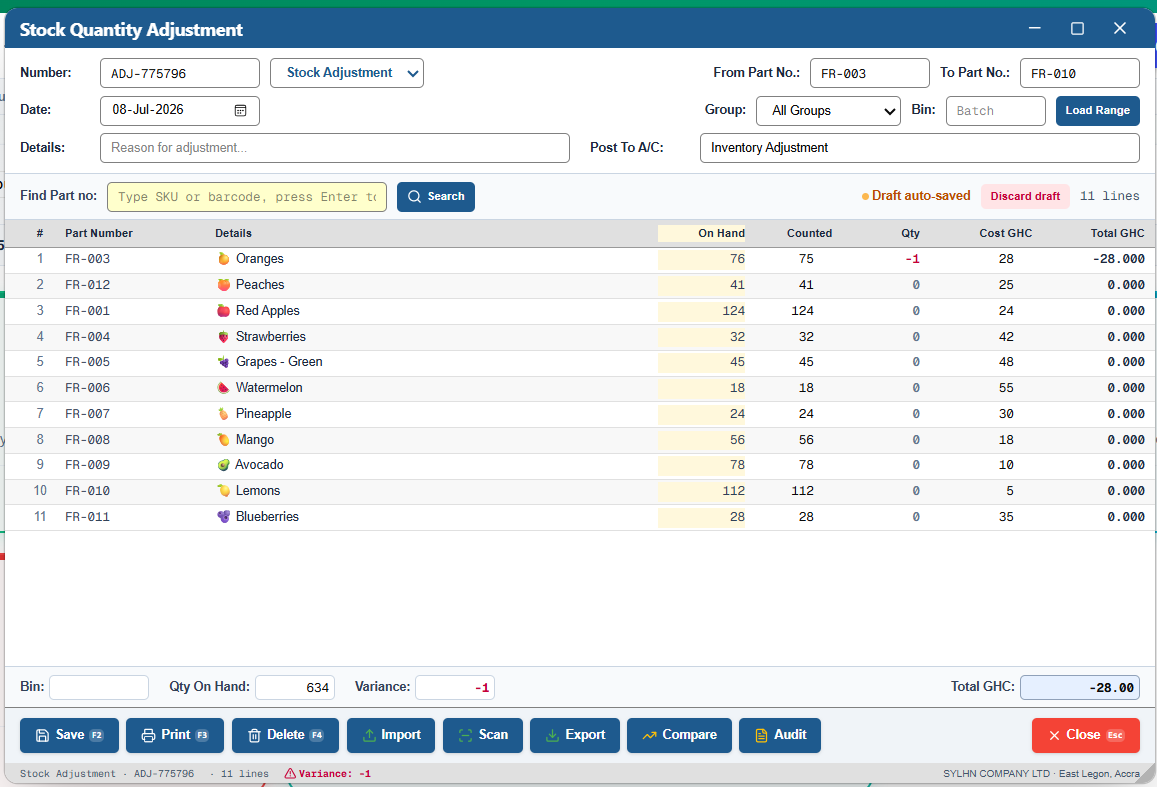
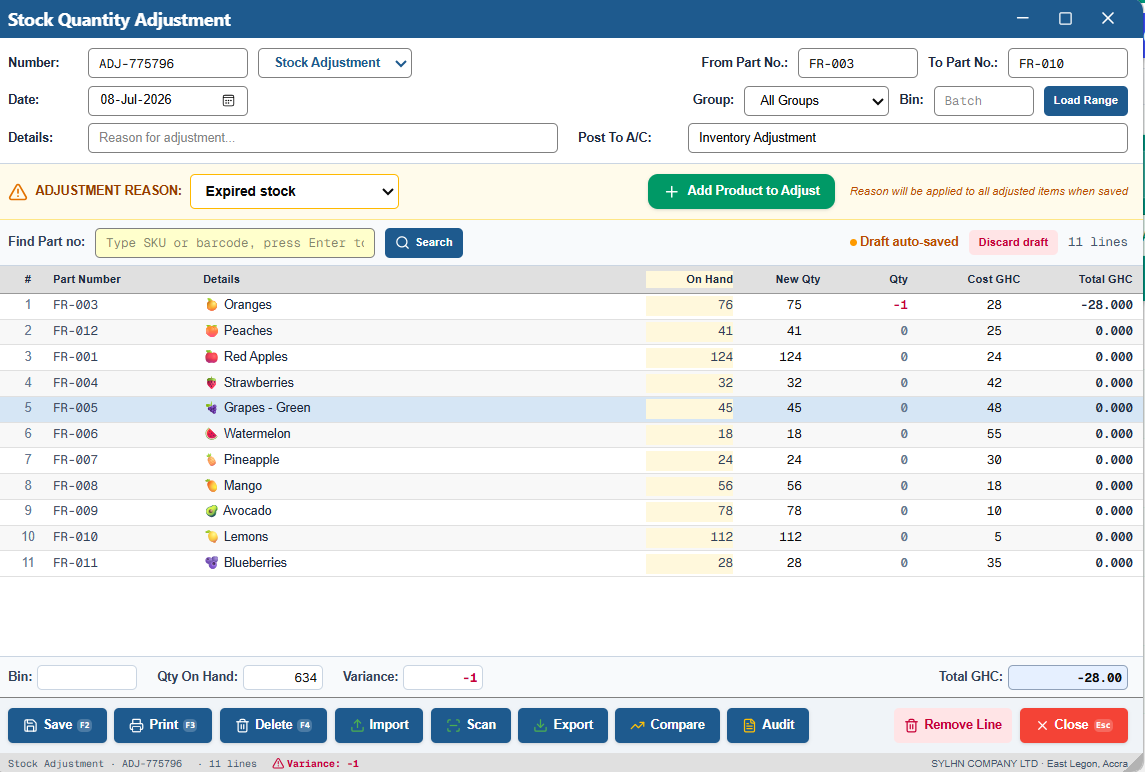
08d92ff1-fcd8-4f8e-9fe2-36269b698050

Changed region(s): [[0.0, 0.0, 1.0, 1.0]]

diff --git a/src/components/stock-quantity-adjustment.tsx b/src/components/stock-quantity-adjustment.tsx
@@ -4,7 +4,7 @@ import { useState, useMemo, useEffect, useRef } from "react";
 import { motion, AnimatePresence } from "framer-motion";
 import {
   Save, Printer, Trash2, Upload, Download, X, Search as SearchIcon,
-  Package, AlertTriangle, TrendingUp, ScanLine, FileText, Plus,
+  Package, AlertTriangle, TrendingUp, ScanLine, FileText,
 } from "lucide-react";
 import { useToast } from "@/hooks/use-toast";
 import { cn } from "@/lib/utils";
@@ -97,12 +97,10 @@ export function StockQuantityAdjustment({
   const [saved, setSaved] = useState(false);
   const [draftRestored, setDraftRestored] = useState(false);
 
-  // ===== Stock Adjustment mode: reason + quick-adjust integration =====
-  // When adjType === 'adjustment', the form shows a Reason dropdown and
-  // a "Quick Adjust" button that opens the QuickStockAdjustment popup.
-  // This makes "Stock Adjustment" a distinct workflow from "Stocktake".
+  // ===== Stock Adjustment mode: reason integration =====
+  // When adjType === 'adjustment', the form shows a Reason dropdown
+  // that is applied to all adjusted items when saved.
   const [adjustReason, setAdjustReason] = useState('Damaged goods');
-  const [showQuickAdjust, setShowQuickAdjust] = useState(false);
 
   // ===== Audit trail: records every mutation to the draft before it's saved =====
   // Each entry captures: timestamp, action type, product affected, old/new values, user.
@@ -951,13 +949,6 @@ export function StockQuantityAdjustment({
             </select>
           </div>
           <div className="flex-1" />
-          <button
-            onClick={() => setShowStockSearch(true)}
-            className="h-7 px-3 rounded-md bg-emerald-600 hover:bg-emerald-700 text-white text-[10px] font-bold flex items-center gap-1.5 transition shadow-sm"
-            title="Search for a product to add to this adjustment"
-          >
-            <Plus className="h-3.5 w-3.5" /> Add Product to Adjust
-          </button>
           <span className="text-[9px] text-amber-700 italic">
             Reason will be applied to all adjusted items when saved
           </span>
@@ -1052,7 +1043,7 @@ export function StockQuantityAdjustment({
               <div className="text-[11px] font-medium">No items added yet</div>
               <div className="text-[9px] mt-0.5">
                 {adjType === 'adjustment'
-                  ? 'Type a Part No. above, click "Add Product to Adjust", or click "Load Range" to begin'
+                  ? 'Type a Part No. above or click "Load Range" to begin'
                   : 'Type a Part No. above or click "Load Range" to begin'}
               </div>
             </div>